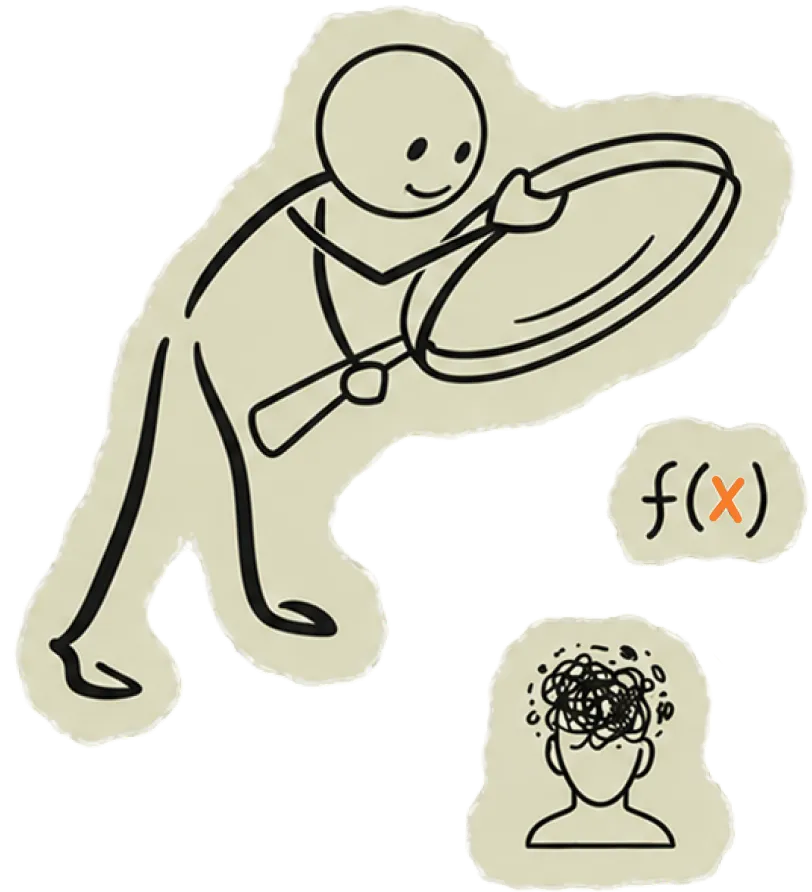
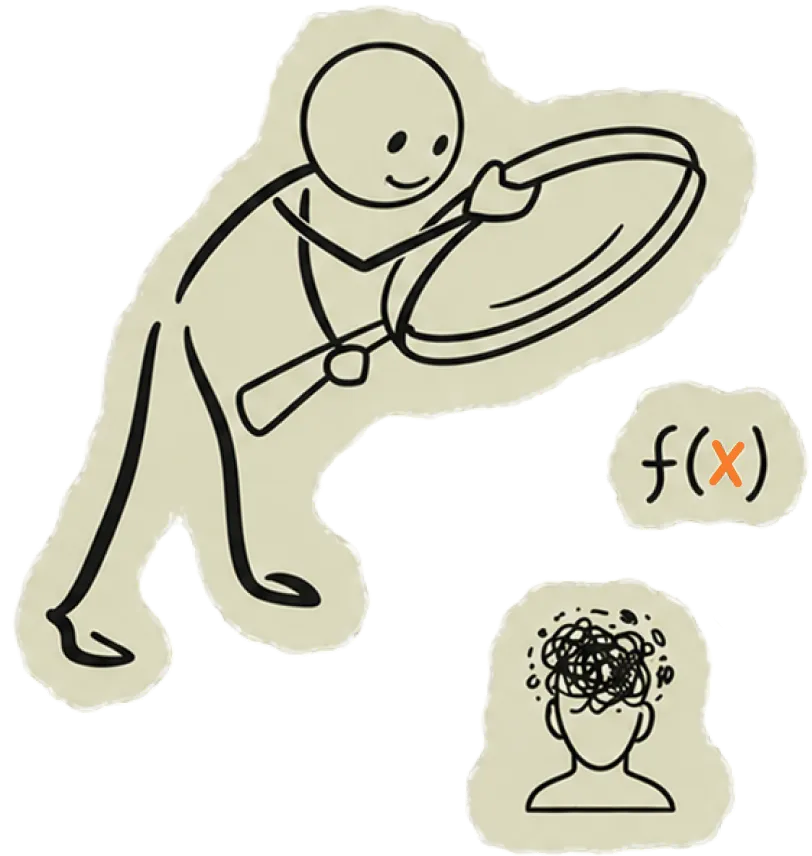
Refinements

diff --git a/namy-design/src/index.css b/namy-design/src/index.css
@@ -430,10 +430,10 @@ body {
   font-family: 'EulogyDemo-SemiBold';
   font-weight: 600;
   font-size: 64px;
-  margin: 0;
-  padding: 0;
+  margin: 0 !important;
+  padding: 0 !important;
   letter-spacing: 3.84px;
-  margin-bottom: auto;
+  margin-bottom: 0;
   color: rgba(224, 223, 191, 0.16);
   line-height: 1.12;
 }
@@ -487,7 +487,7 @@ body {
 
 .what-i-do-selector {
   position: relative;
-  width: 100%;
+  width: auto;
   min-height: 6.85rem;
   display: flex;
   align-items: center;
@@ -500,7 +500,7 @@ body {
 .hover-highlight {
   height: 100%;
   margin-left: auto;
-  width: 754px;
+  width: 654px;
   padding-right: 10%;
   transition: height 0.3s;
   transition-timing-function: ease-in;
@@ -536,6 +536,7 @@ body {
   z-index: 1;
   cursor: help;
   margin : 0;
+  width : auto !important;
 }
 
 .hover-aboslute-bg {
@@ -809,7 +810,7 @@ body {
   position: relative !important;
   display: flex;
   flex-direction: column;
-  gap : 52px;
+  gap : 68px;
   width : auto;
 }
 
@@ -843,7 +844,6 @@ body {
   padding: 0;
   align-items: flex-start;
   display: flex;
-  padding-top: 58px;
 }
 
 #page-8-quote-container {
@@ -867,7 +867,7 @@ body {
   font-size: 64px;
   color: #E0DFBF;
   margin-bottom: 36px;
-  line-height: 86px;
+  line-height: 1.2;
   letter-spacing: 0.4rem;
 }
 
@@ -900,6 +900,7 @@ body {
 #page-8-selector-container {
   width: calc(40% - 100px);
   height: 100%;
+  padding-top : 68px;
 }
 
 .feedback-selector-container {
@@ -967,7 +968,7 @@ body {
 .making-symbol {
   font-family: 'EulogyDemo-Bold';
   font-size: 100px;
-  font-weight : 900;
+  font-weight : 700;
   color: #E0DFBF;
 }
 
@@ -1133,6 +1134,8 @@ body {
   .page-10-video:hover {
     transform: scale(1.01);
     width : auto;
+    height: 99%;
+    border : 1px solid #79797966;
   }
 }
 
@@ -1151,8 +1154,10 @@ body {
   animation-play-state: running;
 }
 
-#page-10-gallery-container[data-animated="true"]:hover #page-10-gallery {
-  animation-play-state: paused;
+@media (min-width : 1100px){
+  #page-10-gallery-container[data-animated="true"]:hover #page-10-gallery {
+    animation-play-state: paused;
+  }
 }
 
 #page-10-gallery-container[data-direction="right"] {
@@ -1202,10 +1207,7 @@ body {
   cursor: url('/assets/images/custom-cursor.svg'), auto;
 }
 
-.page-10-video:hover {
-  height: 97%;
-  border : 1px solid #79797966;
-}
+
 
 .page-10-card-content {
   height: 100%;
@@ -1321,12 +1323,12 @@ body {
 
 #page-11 .page-container {
   padding-top : 0;
-  padding-bottom : 10vh !important;
+  padding-bottom : 0;
 }
 
 #page-11-footer {
   width: 100%;
-  margin-top : 180px;
+  margin-top : 120px;
   margin-bottom: 45px;
   display: flex;
 }
@@ -1392,12 +1394,8 @@ body {
   transform: rotate(-90deg) translateX(100%);
   z-index: 999;
   transform-origin: bottom right;
-  transition: box-shadow 0.4s ease;
 }
 
-.view-resume:hover {
-  box-shadow: -6px 0px 24px rgba(246, 124, 41, 0.45);
-}
 
 .view-resume a {
   display: flex;
@@ -1415,10 +1413,8 @@ body {
   max-width: 0;
   opacity: 0;
   margin-right: 0;
-  transition: max-width 0.55s cubic-bezier(0.23, 1, 0.32, 1),
-              opacity 0.35s ease,
-              margin-right 0.55s cubic-bezier(0.23, 1, 0.32, 1);
 }
+
 
 #resume-btn-text-show {
   color: #2B2B2B;
@@ -1431,12 +1427,6 @@ body {
   transition: max-width 0.55s cubic-bezier(0.23, 1, 0.32, 1),
               opacity 0.35s ease,
               margin-right 0.55s cubic-bezier(0.23, 1, 0.32, 1);
-}
-
-.view-resume:hover #resume-btn-text {
-  max-width: 260px;
-  opacity: 1;
-  margin-right: 10px;
 }
 
 .left-sticky-menu {
@@ -2607,8 +2597,8 @@ body {
 
   #page-8-selector-container {
     width: 35%;
-    margin-top: 70px; /* Align horizontally with the main text */
     height: auto;
+    padding-top : 60px;
   }
 
   .feedback-selector-container {
@@ -2774,8 +2764,10 @@ body {
   #page-10-text {
     width : calc( 100% - 48px );
     padding : 0px 24px;
+    padding-bottom : 0 !important;
     font-size : 48px;
     margin : 50px 0;
+    margin-bottom : 0px;
     line-height : 1.2;
   }
 
@@ -2784,18 +2776,30 @@ body {
     height : 520px;
   }
 
+  #page-10-gallery {
+    gap : 12px !important;
+  } 
+
+  .page-10-card-content {
+    border-radius : 12px;
+  }
+
+
 
   .page-10-video {
     /* aspect-ratio: 167/207; */
     width : 334px;
     height : 80%;
+    border : 1px solid #393939;
     /* margin-left: 10px;
     margin-right: 10px; */
   }
 
   .page-10-overlay {
+    width : calc(100% - 32px);
     padding: 16px;
     opacity: 1 !important;
+    border-radius : 12px;
   }
   .p10-meta,
   .p10-title,
@@ -2885,7 +2889,7 @@ body {
   }
 }
 
-@media (max-width : 360px){
+@media (max-width : 400px){
   #page-2 {
     height : 1400px;
   }
@@ -2937,6 +2941,10 @@ body {
     width : 80vw;
   }
   
+  .page-10-card-content , .page-10-video{
+    aspect-ratio: 1/1 !important;
+  }
+
 }
 
 @media (max-width : 340px){

diff --git a/namy-design/src/Home.tsx b/namy-design/src/Home.tsx
@@ -431,9 +431,9 @@ useEffect(() => {
                   className="what-i-do-text"
                   scroller="#myScrollableDiv"
                 >
-                  WIREFRAME
+                  BLUEPRINT
               </ScrollHighlight>
-                <div className="hover-highlight"> Now AI does the digging, competitors, patterns, user data. I do the thinking. Surprisingly, prompts can't replace that yet</div>
+                <div className="hover-highlight"> AI does the digging; competitors, patterns, data & I do the thinking. Surprisingly, prompts can't replace that yet</div>
                 <div className="hover-aboslute-bg"></div>
               </div>
               <div className="what-i-do-selector">
@@ -479,7 +479,7 @@ useEffect(() => {
                   className="what-i-do-text"
                   scroller="#myScrollableDiv"
                 >
-                  INTERACTION
+                  EXPERIENCE
                 </ScrollHighlight>
                 <div className="hover-highlight"> The first interaction is never the right one. I iterate until it feels like it couldn't have existed any other way</div>
                 <div className="hover-aboslute-bg"></div>
@@ -495,9 +495,9 @@ useEffect(() => {
                   className="what-i-do-text"
                   scroller="#myScrollableDiv"
                 >
-                  USER TESTING
+                  VALIDATE
                 </ScrollHighlight>
-                <div className="hover-highlight"> Shipped isn't done. User interviews, A/B tests, dev & PM follow-ups. I stick around until the numbers have something to say</div>
+                <div className="hover-highlight"> Shipped isn't done. User interviews, A/B tests, Dev/PM follow-ups. I stick around until the numbers have something to say</div>
                 <div className="hover-aboslute-bg"></div>
               </div>
             </div>
@@ -594,7 +594,7 @@ useEffect(() => {
 
        <div className="page" id="page-7">
           <div className="page-7-container" id="page-7-container-1">
-            <div className="page-header" id="page-7-page-header">CASE STUDIES<span className="page-header-symbol">✦</span> </div>
+            <div className="page-header" id="page-7-page-header">SELECT WORK<span className="page-header-symbol">✦</span> </div>
             <div className="page-7-content-container" id="e-invoice-content">
               <div className="app-image-container">
                 <Link to="/mybillbook" className="app-image-link">

diff --git a/namy-design/index.html b/namy-design/index.html
@@ -7,7 +7,17 @@
     <link rel="preconnect" href="https://fonts.googleapis.com">
     <link rel="preconnect" href="https://fonts.gstatic.com" crossorigin>
     <link href="https://fonts.googleapis.com/css2?family=Inter:ital,opsz,wght@0,14..32,100..900;1,14..32,100..900&display=swap" rel="stylesheet">
-    <title>namy-design</title>
+    <title>Namrata Portfolio</title>
+    <meta property="og:title" content="Namrata Jaiswal Portfolio" />
+    <meta property="og:description" content="I am a Product Designer, selectively skilled & intentionally thorough because pretty without purpose is just a wallpaper." />
+    <meta property="og:image" content="/assets/images/Namy_Design_OG_Image.webp" />
+    <meta property="og:url" content="https://namy.design" />
+    <meta property="og:type" content="website" />
+
+    <!-- Twitter / X Card Tags -->
+    <meta name="twitter:card" content="summary_large_image" />
+    <meta name="twitter:description" content="I am a Product Designer, selectively skilled & intentionally thorough because pretty without purpose is just a wallpaper." />
+    <meta name="twitter:image" content="/assets/images/Namy_Design_OG_Image.webp" />
   </head>
   <body>
     <div id="root"></div>

diff --git a/namy-design/src/Resume.css b/namy-design/src/Resume.css
@@ -179,10 +179,10 @@ body::-webkit-scrollbar {
   position: fixed;
   bottom: 100px;
   right: 0px;
-  padding-top: 20px;
-  padding-bottom: 16px;
-  padding-left: 20px;
-  padding-right: 20px;
+  padding-top: 16px;
+  padding-bottom: 12px;
+  padding-left: 16px;
+  padding-right: 16px;
   background-color: #F67C29;
   border-top-right-radius: 16px;
   border-top-left-radius: 16px;
@@ -193,8 +193,8 @@ body::-webkit-scrollbar {
   transition: box-shadow 0.4s ease;
 }
 
-#download-btn img{
-    height : 20px !important;
+.resume-download img{
+    height : 16px !important;
     width : auto;
 }
 

diff --git a/namy-design/src/BackArrow.css b/namy-design/src/BackArrow.css
@@ -30,15 +30,15 @@
 /* Adjust position for mobile screens */
 @media (max-width: 768px) {
   .fixed-back-arrow {
-    top: 16px;
-    left: 16px;
-    width: 24px;
-    height: 24px;
+    top: 28px;
+    left: 28px;
+    width: 32px;
+    height: 32px;
     padding : 0 !important;
   }
 
   .fixed-back-arrow svg {
-    width: 10px !important;
-    height: 10px !important;
+    width: 16px !important;
+    height: 16px !important;
   }
 }
